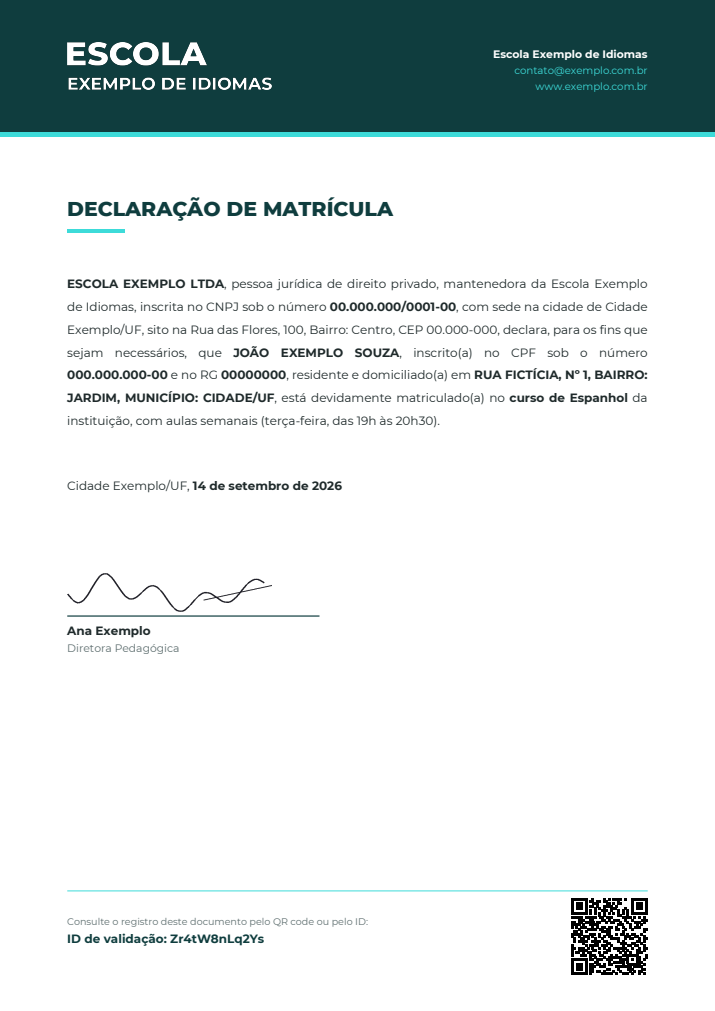
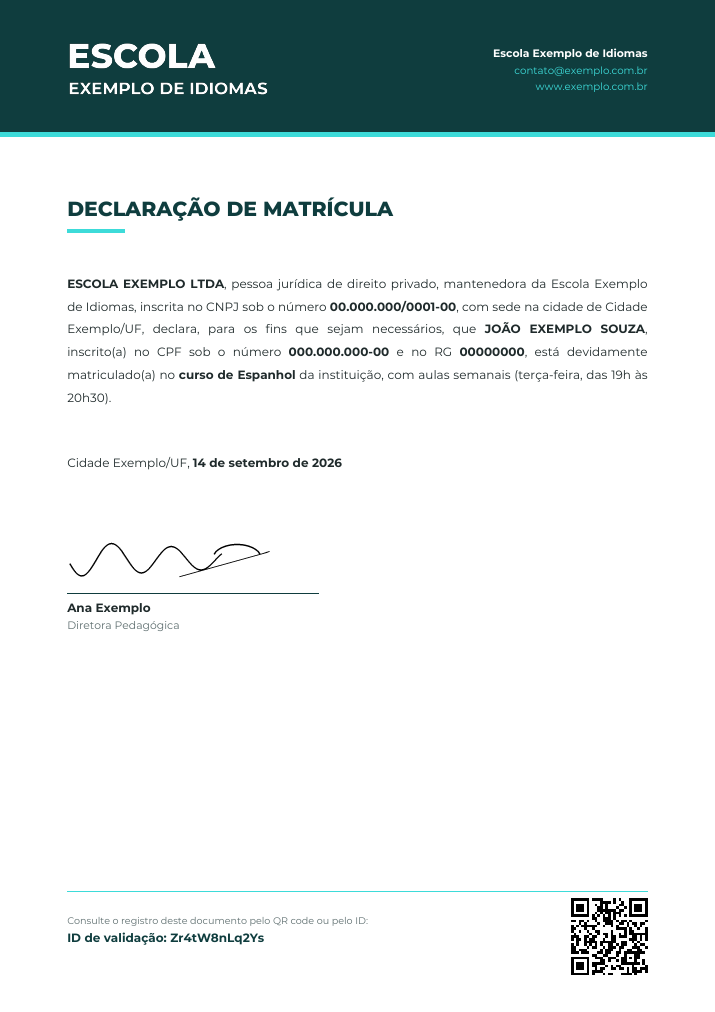
README: imagem da declaração sem endereço e contagem de testes
Claude-Session: https://claude.ai/code/session_01Fdr3g6FHRUR3gK2p63C4Qb

diff --git a/README.md b/README.md
@@ -157,7 +157,7 @@ validação já mostra) e PDF só de documento ativo.
 | Cadastro | Direto na planilha | Formulário, CSV com vários documentos ou planilha |
 | Revogação | Direto na planilha (a emissão só lê): mudar o `status`. A validação reflete em até 30 s, pelo cache | Botão na emissão, com motivo e confirmação (grava `status` e as colunas de revogação), ou planilha. A validação reflete na consulta seguinte |
 | Vários PDFs | Um por vez | Vários num ZIP (até 15) |
-| Testes | 156 automatizados (pytest), incluindo o fluxo registro → PDF → QR → página | Validação manual dos fluxos, inclusive de ponta a ponta num navegador |
+| Testes | 157 automatizados (pytest), incluindo o fluxo registro → PDF → QR → página | Validação manual dos fluxos, inclusive de ponta a ponta num navegador |
 
 Detalhes e demais diferenças: [`python/README.md`](python/README.md) e
 [`n8n/README.md`](n8n/README.md).

diff --git a/docs/decisao.md b/docs/decisao.md
@@ -43,7 +43,7 @@ equipe já opera n8n, os fluxos cobrem os mesmos requisitos.
 | | Python | n8n |
 |---|---|---|
 | Layout do PDF | Adaptativo (tamanho de fonte calculado para nomes longos e conteúdo extenso) | Definido no modelo; nomes muito longos dependem de uma fonte já dimensionada no modelo |
-| Testes | 156 testes automatizados, incluindo fluxo completo | Validação manual dos fluxos |
+| Testes | 157 testes automatizados, incluindo fluxo completo | Validação manual dos fluxos |
 | Rate limit | Por IP, em memória | Mais simples; o formato do ID é a principal proteção |
 | Manutenção | Exige quem mexa em código | Ajustável pela própria equipe no editor visual |
 | Integrações (e-mail, outros sistemas) | Exigiriam código novo | Nativas da plataforma |

diff --git a/python/README.md b/python/README.md
@@ -15,7 +15,7 @@ src/
   linkedin.py          link "Adicionar ao LinkedIn" dos certificados
   templates/           um módulo de layout por tipo de documento
     assets/            fundo do certificado e fonte Montserrat (SIL OFL)
-tests/                 156 testes, incluindo o fluxo registro -> PDF -> QR -> página
+tests/                 157 testes, incluindo o fluxo registro -> PDF -> QR -> página
 Dockerfile
 DEPLOY.md              publicação com Docker
 .env.example           variáveis de ambiente (sem valores reais)
